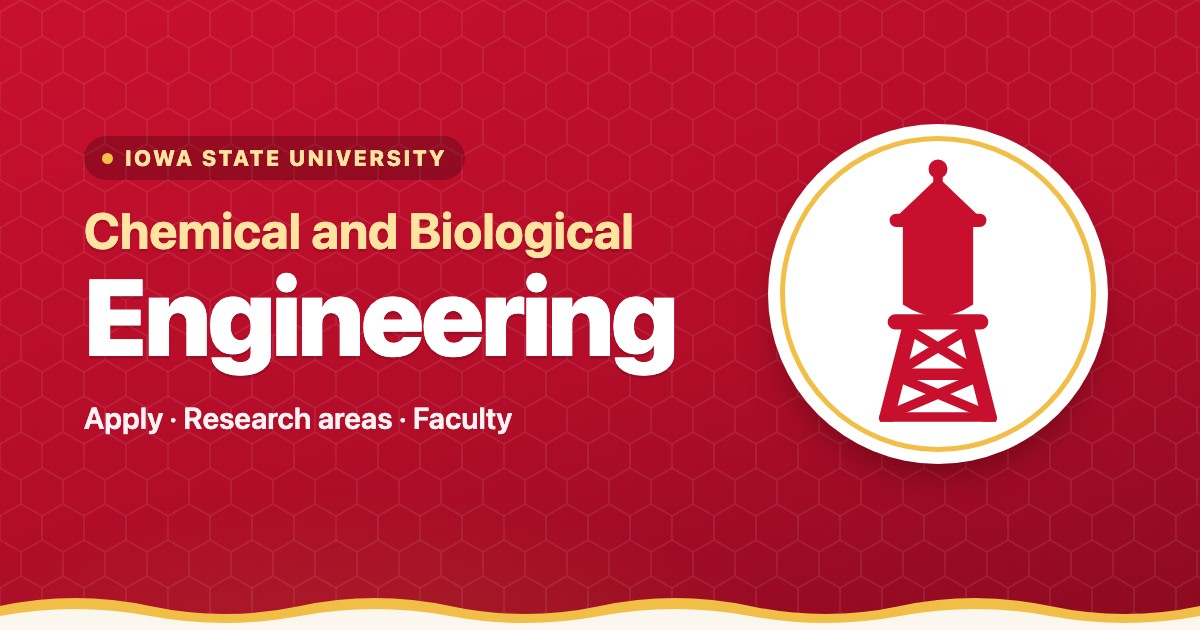
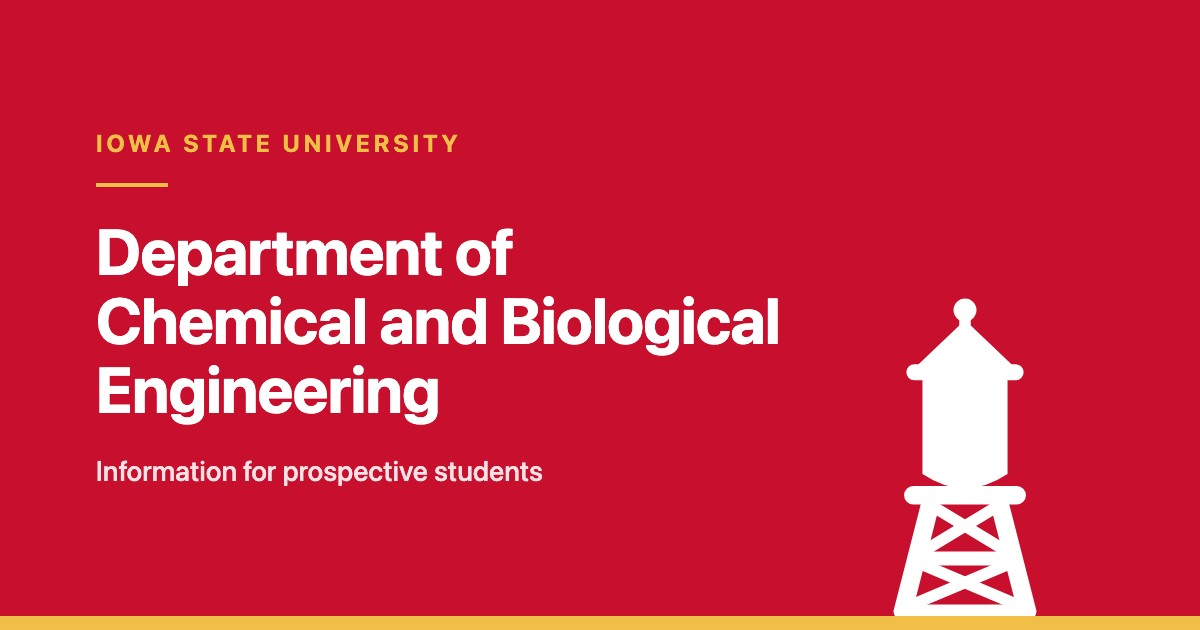
style(cbe): more formal link preview image
Plain cardinal background, "Iowa State University" over a gold rule,
the full department name, "Information for prospective students", and
a white Marston Water Tower silhouette on a gold band. The image URL
gets ?v=2 so apps that already cached the old card fetch the new one.

diff --git a/cbe/index.html b/cbe/index.html
@@ -9,10 +9,10 @@
 <meta property="og:description" content="Apply, explore research areas and meet the faculty.">
 <meta property="og:type" content="website">
 <meta property="og:url" content="https://chowdhurylab.github.io/cbe/">
-<meta property="og:image" content="https://chowdhurylab.github.io/cbe/og-image.jpg">
+<meta property="og:image" content="https://chowdhurylab.github.io/cbe/og-image.jpg?v=2">
 <meta property="og:image:width" content="1200">
 <meta property="og:image:height" content="630">
-<meta property="og:image:alt" content="Iowa State University, Chemical and Biological Engineering, with the Marston Water Tower">
+<meta property="og:image:alt" content="Iowa State University, Department of Chemical and Biological Engineering, with the Marston Water Tower">
 <meta name="twitter:card" content="summary_large_image">
 <meta name="theme-color" content="#C8102E">
 <meta name="color-scheme" content="light">
